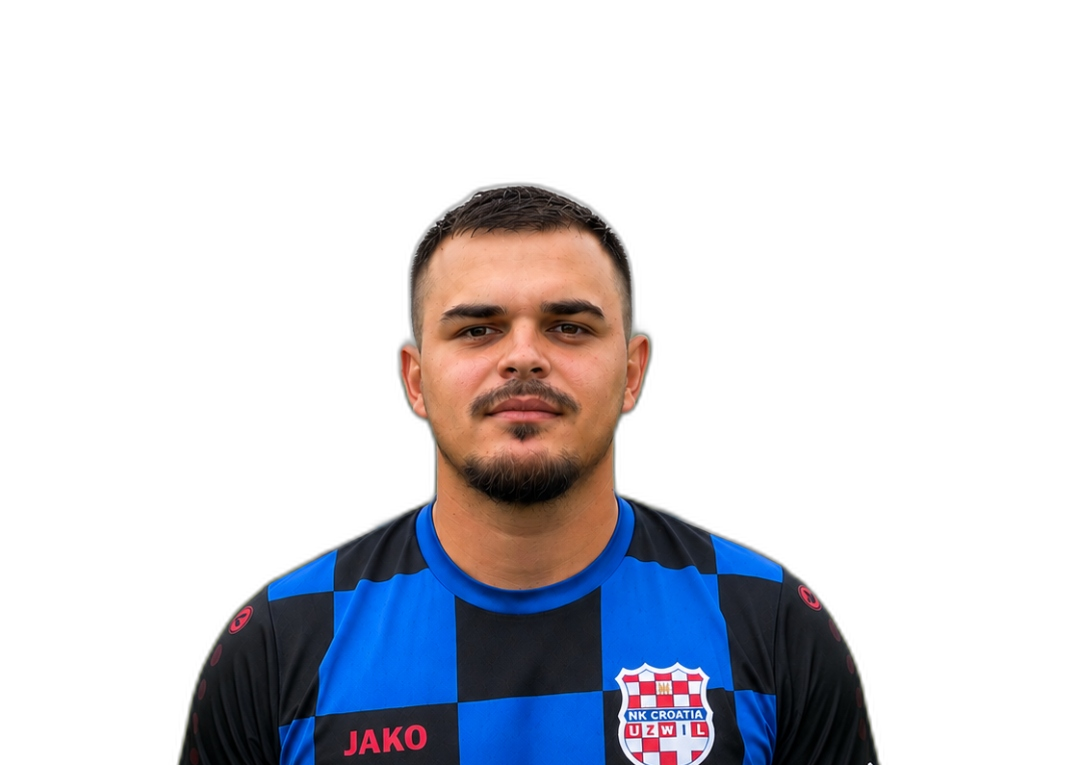
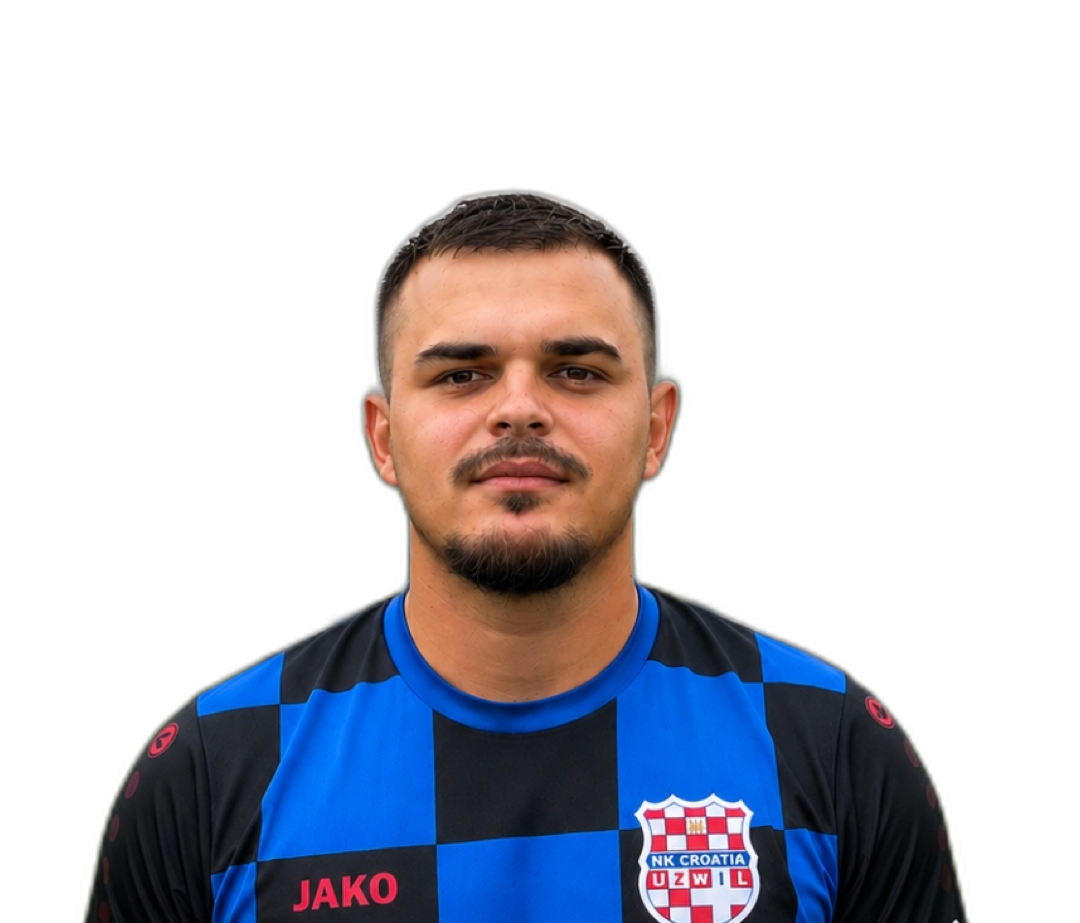
Lineup cut-out: Hysenaj scaled up to the median size (standard canvas shape); sw.js cache v29
Claude-Session: https://claude.ai/code/session_012cziMATaV3CPcJGagGzEQs

Changed region(s): [[0.0611, 0.1804, 0.9167, 1.0]]

diff --git a/sw.js b/sw.js
@@ -1,4 +1,4 @@
-const CACHE = 'nk-croatia-v28';
+const CACHE = 'nk-croatia-v29';
 const ASSETS = [
   '/',
   '/index.html',
